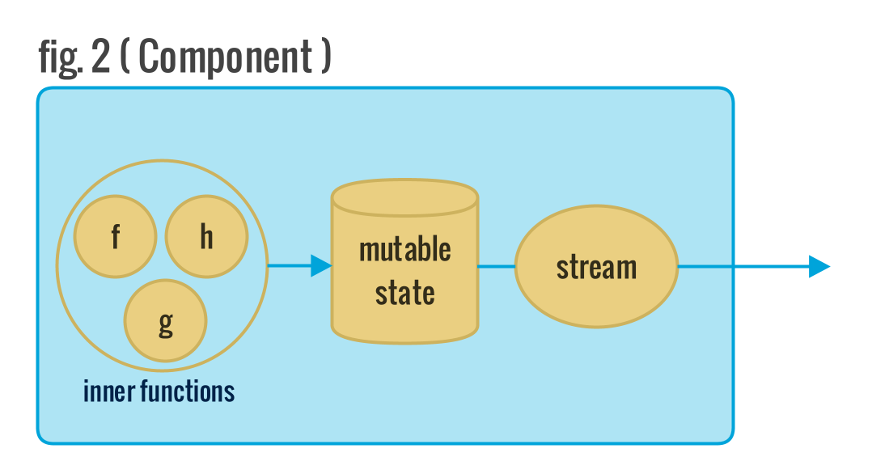
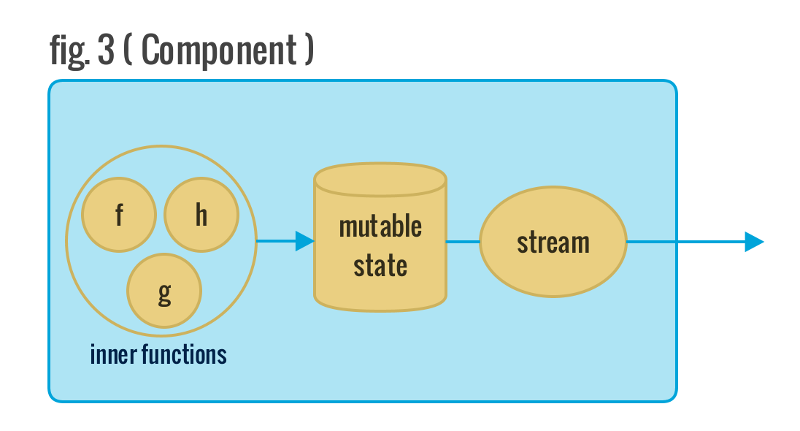
Compiled

Changed region(s): [[0.0312, 0.0603, 0.9375, 0.935], [0.6875, 0.6636, 0.75, 0.6937]]

diff --git a/about.html b/about.html
@@ -49,26 +49,37 @@
         <input type="hidden" id='active_tab' value="{{active_tab}}">
         <div class="container">
   <div class="row">
-    <div class="col-md-12 col-sm-12 col-xs-12 col-lg-12">
-     <h2>Event-driven development</h2>
-<p>Современные веб-приложения требуют от разработчков все больше усилий, чтобы удовлетворить несколько требований современного рынка. Большая часть усилий сконцентророванна на том, чтобы обеспечить конечному пользователю отзывчивый дизайн, под которым мы понимаем немедленную реакцию приложения, удобный UI. Не менее важной частью является отказоустойчивость, - в идеале возможность работы в оффлайне, или хотя-бы гарантия безопасности на случай сбоев, как сетевых, так и технологических. Автономная работа. Коллаборативная работа. А ведь есть еще требования, которые необходимо удовлетворять, чтобы приложение вообще могло эволюционировать. Масштабируемость, модульность (слабая связность компонентов), декларативность и прочее... </p>
-<p>Реализовать это кажется сложной затеей, особенно учитывая те инструменты, что мы имеем.</p>
-<p>С самого начала, и до сих пор, единственный способ огранизовать взаимодействие пользователя с DOM были события. И это проблема. Большинство современных фремворков и библиотек имеют свое решение. Причем, каждая технология решает лишь часть проблемы. В лучшем случае, она не порождает новые проблемы (как например jQuery).</p>
-<h3>Сложность EDD</h3>
-<div class='g-img-container'>
-	<img src="assets/images/comp.png">
+    
+     <div class='row'>
+	<div class="col-md-12 col-sm-12 col-xs-12 col-lg-12">
+		<h2>Event-driven development</h2>
+		<p>Современные веб-приложения требуют от разработчков все больше усилий, чтобы удовлетворить несколько требований современного рынка. Большая часть усилий сконцентророванна на том, чтобы обеспечить конечному пользователю отзывчивый дизайн, под которым мы понимаем немедленную реакцию приложения, удобный UI. Не менее важной частью является отказоустойчивость, - в идеале возможность работы в оффлайне, или хотя-бы гарантия безопасности на случай сбоев, как сетевых, так и технологических. Автономная работа. Коллаборативная работа. А ведь есть еще требования, которые необходимо удовлетворять, чтобы приложение вообще могло эволюционировать. Масштабируемость, модульность (слабая связность компонентов), декларативность и прочее... </p>
+		<p>Реализовать это кажется сложной затеей, особенно учитывая те инструменты, что мы имеем.</p>
+		<p>С самого начала, и до сих пор, единственный способ огранизовать взаимодействие пользователя с DOM были события. И это проблема. Большинство современных фремворков и библиотек имеют свое решение. Причем, каждая технология решает лишь часть проблемы. В лучшем случае, она не порождает новые проблемы (как например jQuery).</p>
+		<h3>Сложность EDD</h3>
+		<div class='g-img-container'>
+			<img src="assets/images/comp.png">
+		</div>
+
+		<h2>Functional Reactive Programming</h2>
+		<p>Functional reacitve programming brings declarative style into EDD applications by represeting events as sources of data. You implement events processing as processing streams of data, combining and composing them.</p> 
+		<div class='g-img-container'>
+			<img src="assets/images/frpstream.png">
+		</div>
+		<h2>Trade-off</h2>
+	</div>
+</div>
+<div class='row'>
+
+	<div class='g-img-container col-md-6 col-lg-6 col-xs-12 col-sm-12'>
+		<img src="assets/images/component.png">
+	</div>
+	<div class='g-img-container col-md-6 col-lg-6 col-xs-12 col-sm-12'>
+		<p>В Warden.js предоставлена возможность создавать модули, которые инкапсулируют внутри себя изменяемое состояние. Единственным условием, что внутренние функции компонента не должны изменять состояния других систем или внешнего состояния.</p>
+	</div>
 </div>
 
-<h2>Functional Reactive Programming</h2>
-<p>Functional reacitve programming brings declarative style into EDD applications by represeting events as sources of data. You implement events processing as processing streams of data, combining and composing them.</p> 
-<div class='g-img-container'>
-	<img src="assets/images/scheme.png">
-</div>
-<h2>Trade-off</h2>
-<div class='g-img-container'>
-	<img src="assets/images/component.png">
-</div>
-    </div>
+    
   </div>
 </div>
     </body>
